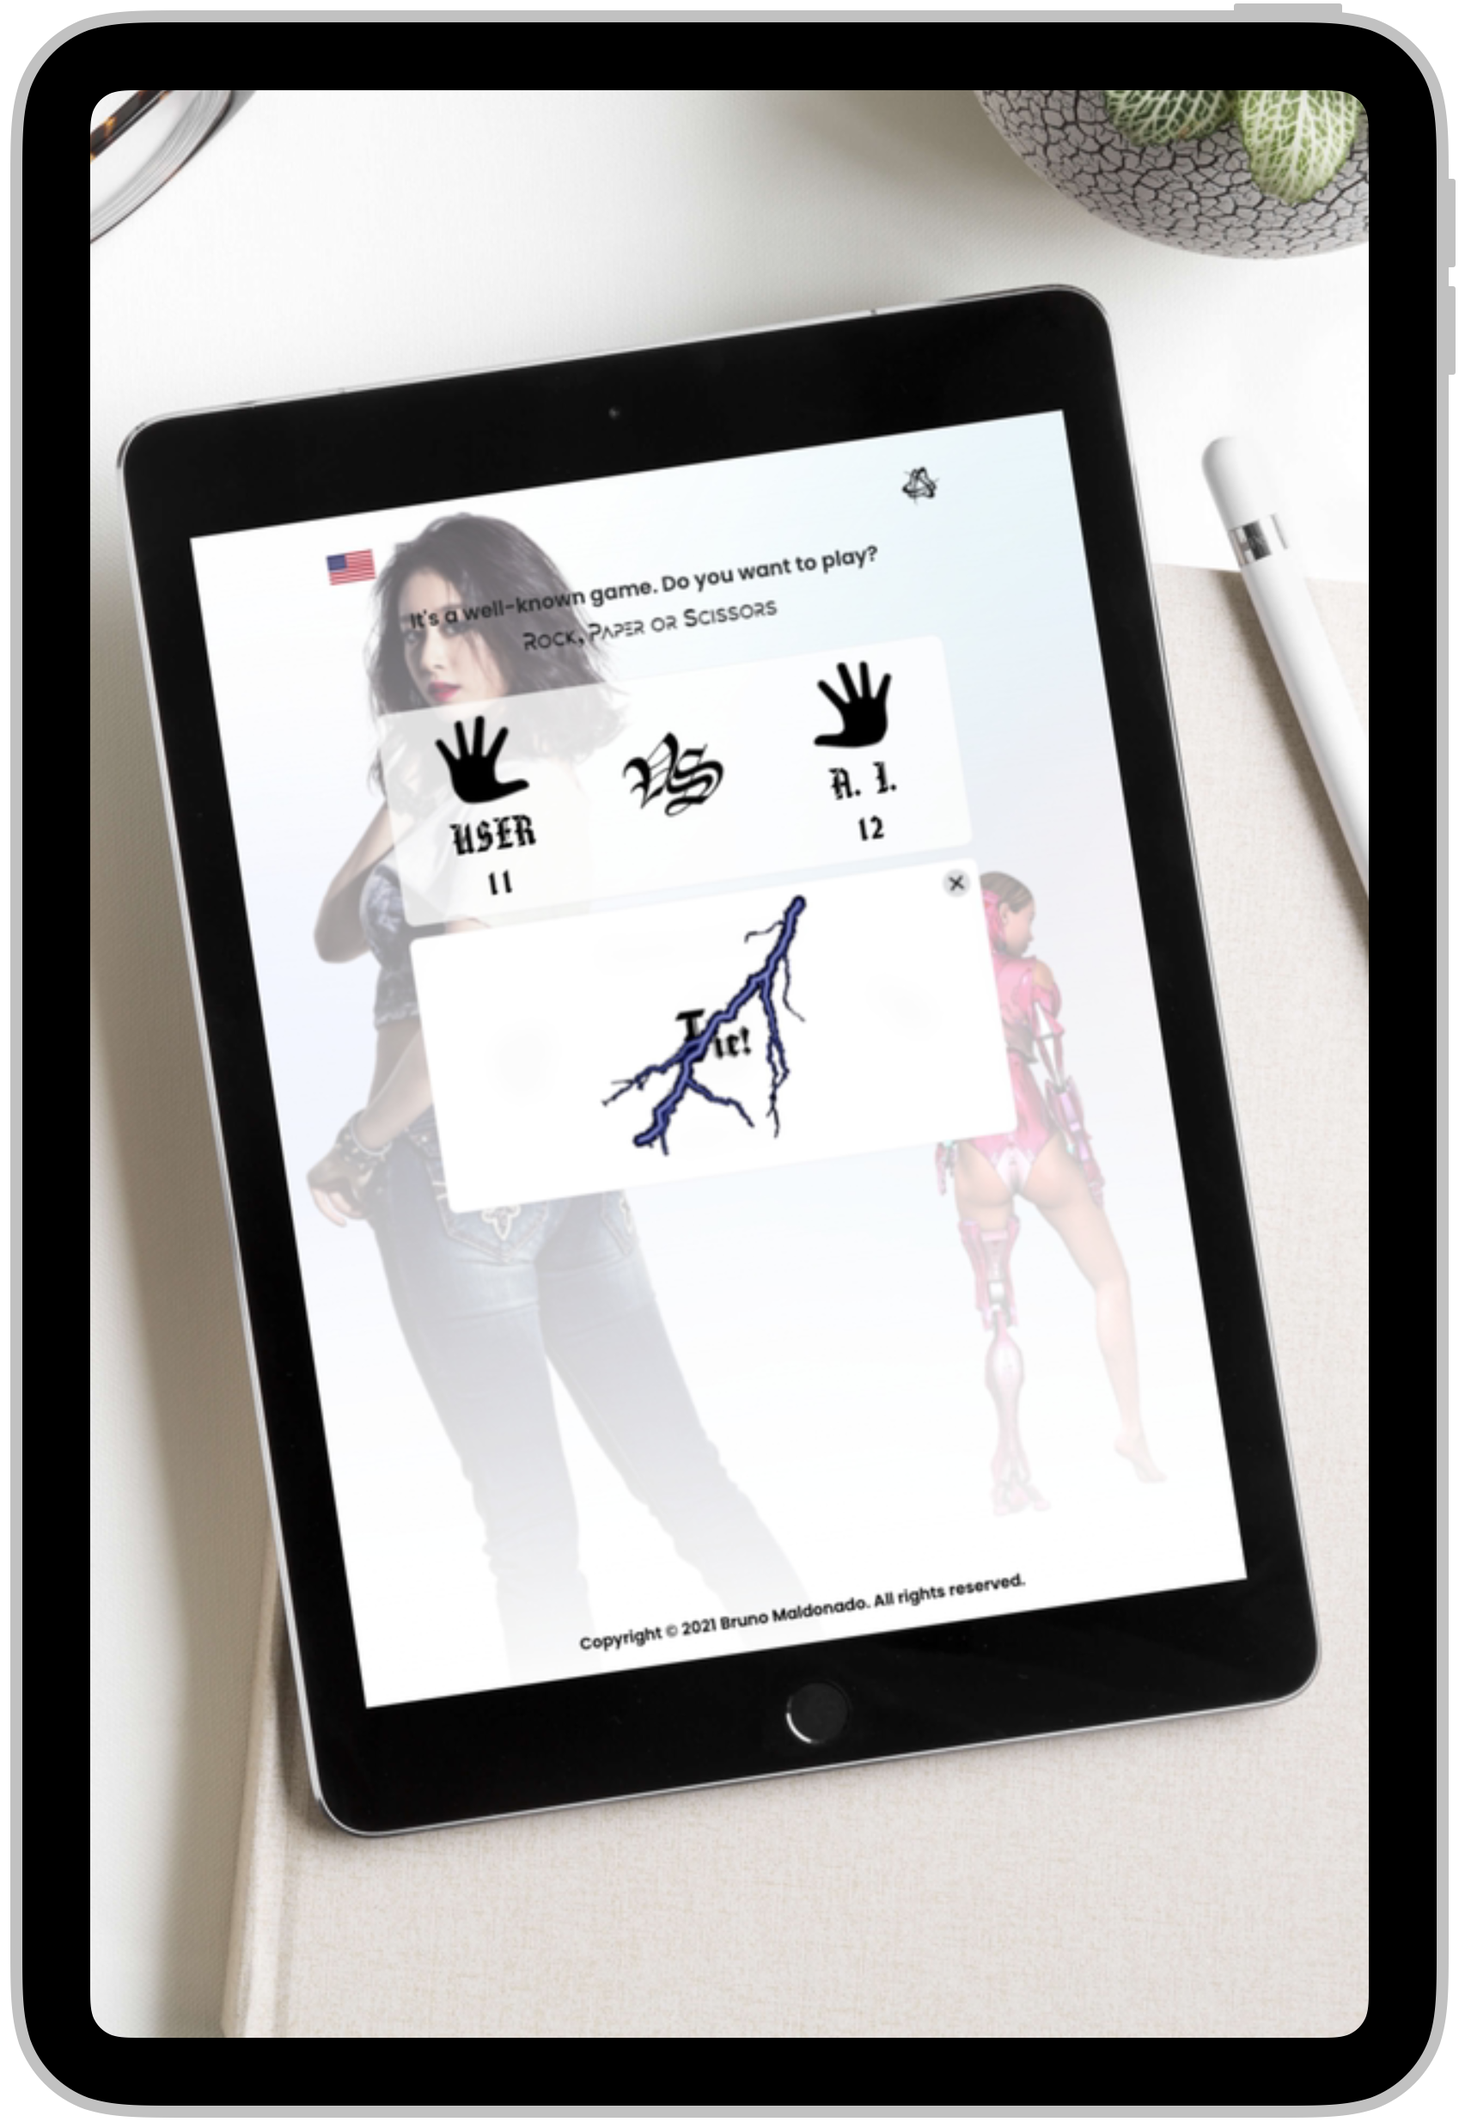
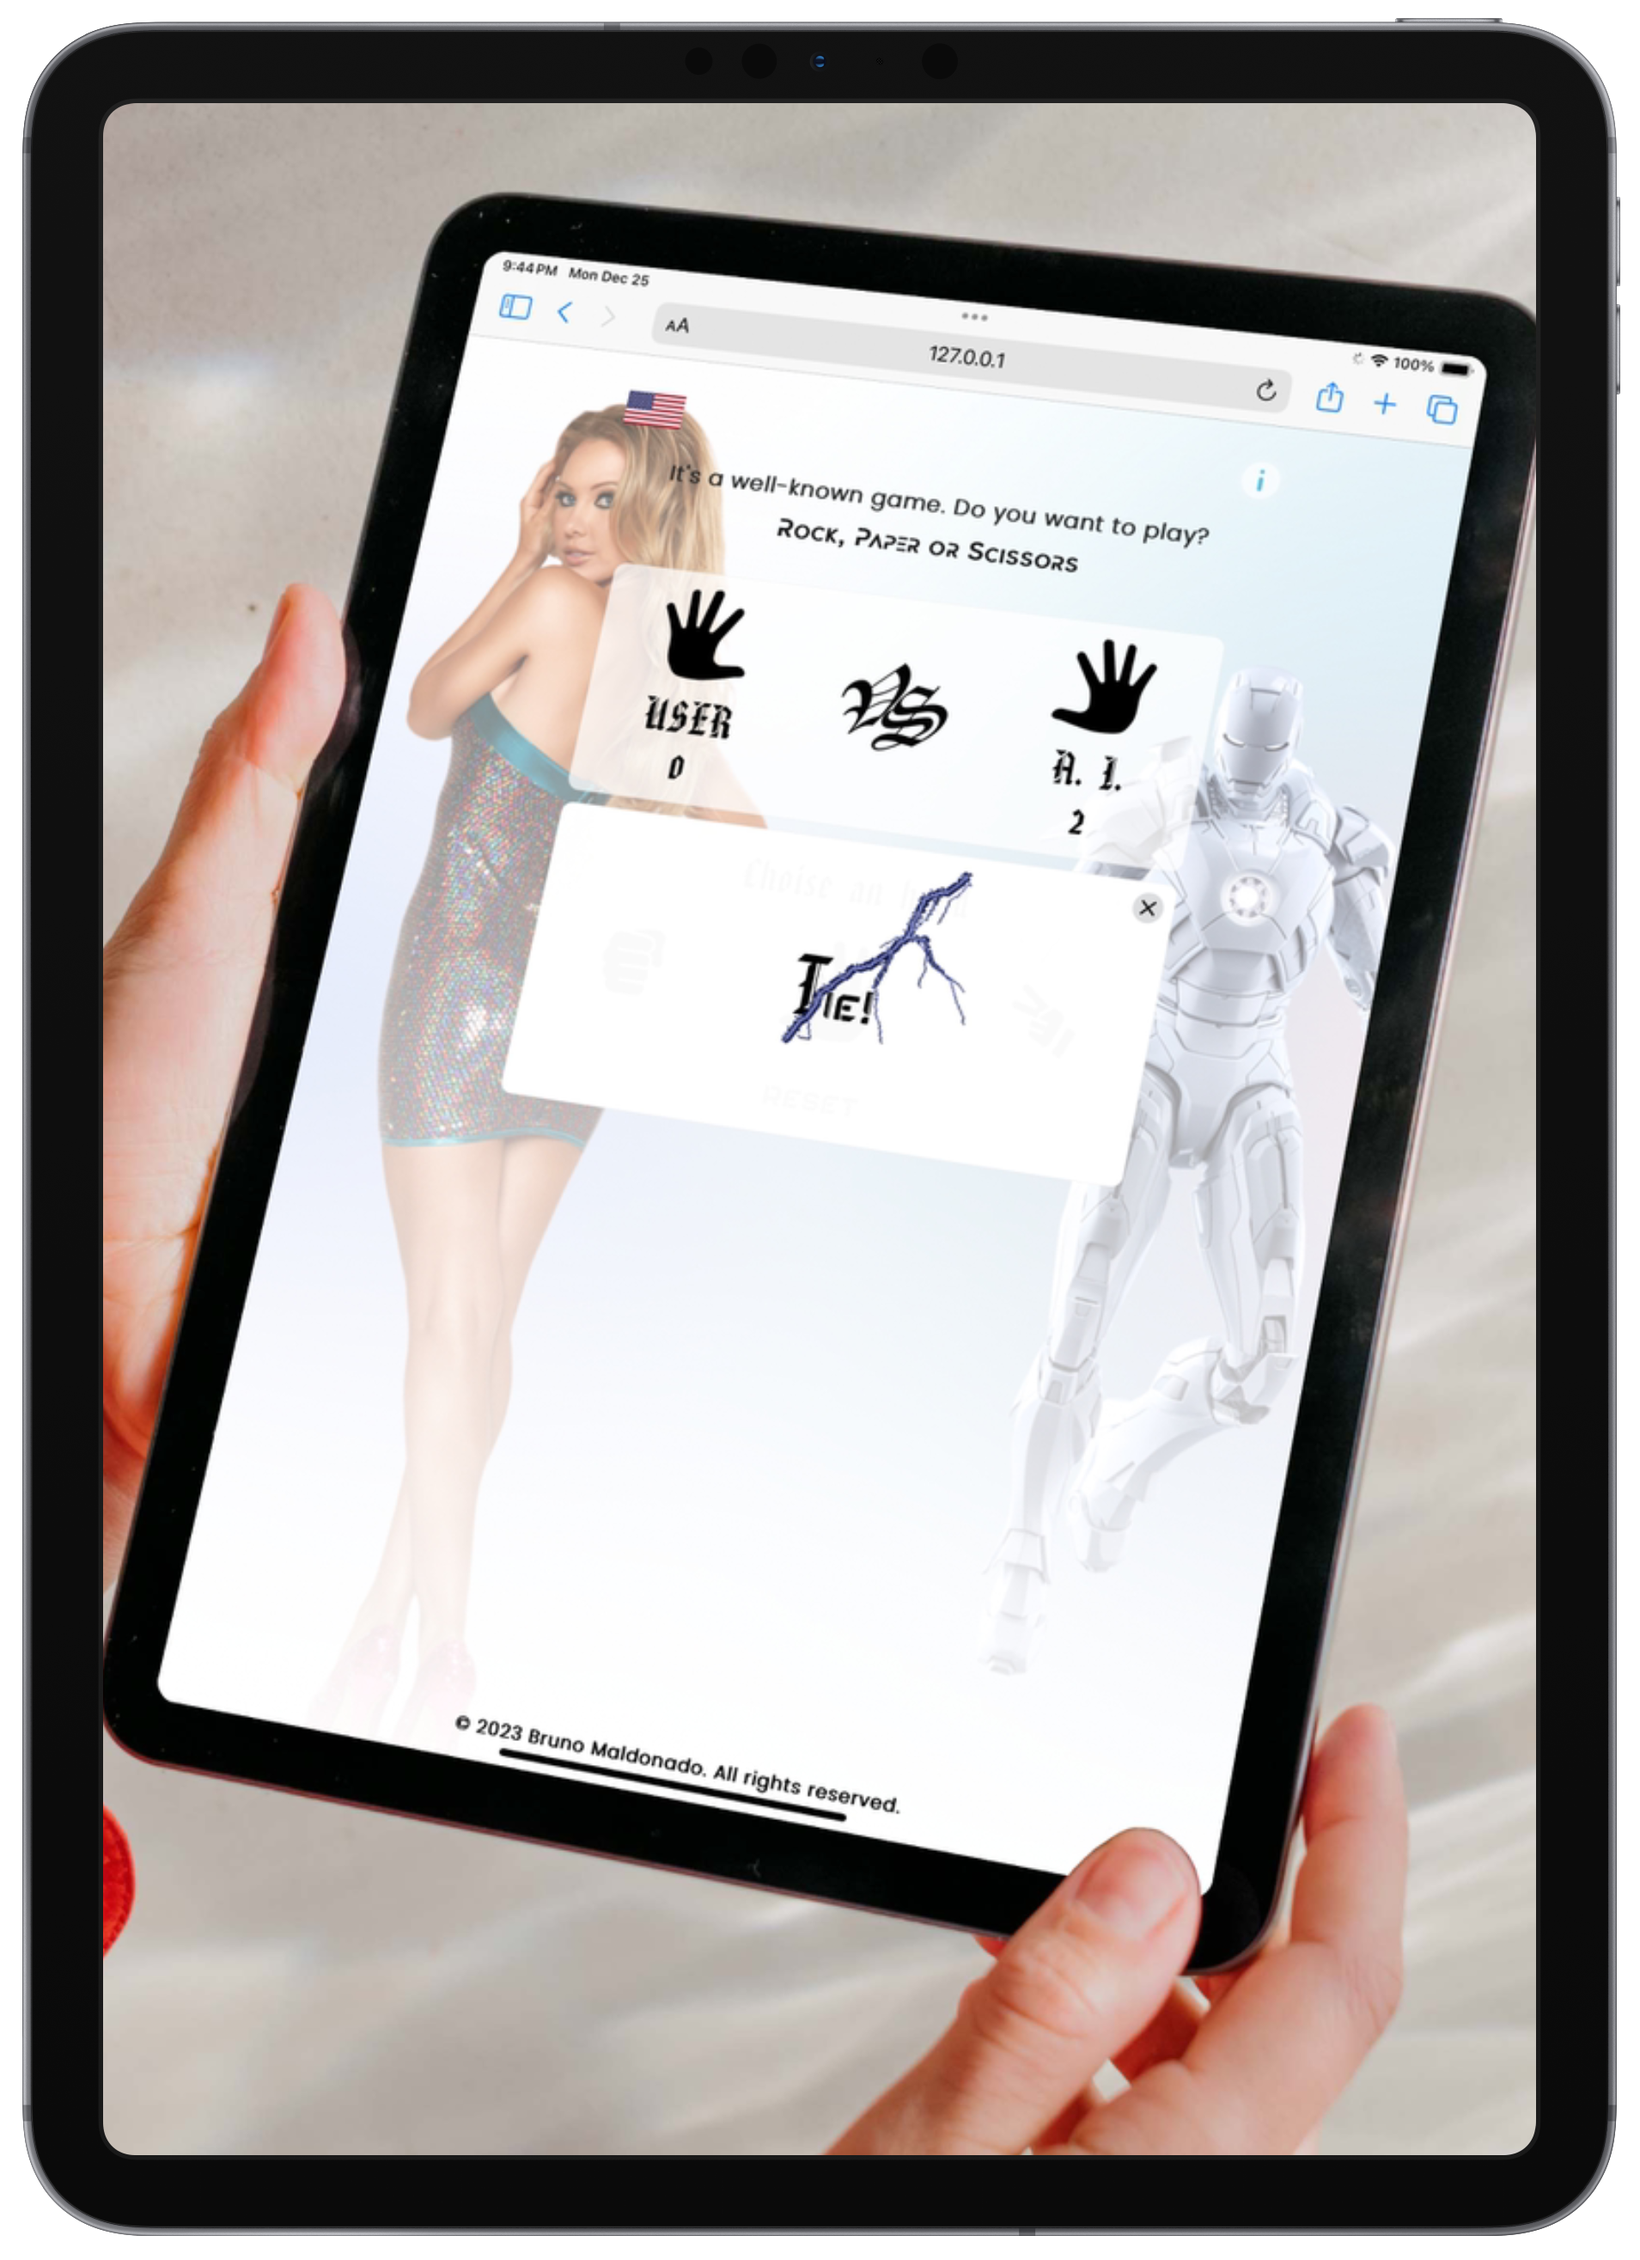
update repo

diff --git a/js/appen.js b/js/appen.js
@@ -22,8 +22,8 @@ const modal_users = document.getElementById("modal_users")
 const background_ai = document.getElementById("background_ai")
 const tie_background__users  = document.getElementById("tie_background__users")
 const tie_background__ai  = document.getElementById("tie_background__ai")
-const usersImages = ["./img/hum/09.png","./img/hum/10.png","./img/hum/05.png","./img/hum/042.png","./img/hum/07.png","./img/hum/06.png","./img/hum/08.png","./img/hum/11.png","./img/hum/g.png","./img/hum/c.png","./img/hum/042.png","./img/hum/03.png","./img/hum/b.png"]
-const iaImages = ["./img/rob/01.png","./img/rob/02.png","./img/rob/03.png","./img/rob/04.png","./img/rob/05.png","./img/rob/06.png","./img/rob/07.png","./img/rob/08.png"]
+const usersImages = ["./img/hum/g.png","./img/hum/10.png","./img/hum/11.png","./img/hum/05.png","./img/hum/07.png","./img/hum/06.png","./img/hum/08.png","./img/hum/09.png","./img/hum/03.png","./img/hum/c.png","./img/hum/042.png","./img/hum/aa.png","./img/hum/b.png"]
+const iaImages = ["./img/rob/01.png","./img/rob/06.png","./img/rob/03.png","./img/rob/04.png","./img/rob/05.png","./img/rob/02.png","./img/rob/07.png","./img/rob/08.png"]
 var index = 0;
 
 var bookmark_user = 0;

diff --git a/README.md b/README.md
@@ -8,7 +8,7 @@ A preview of the game, for mobile phone, tablets and desktop
 <div align="center">
   <img src="./assets/tablet.PNG" valign="top"  style="width: 49%;" alt="tablet">
   &nbsp; &nbsp; &nbsp; &nbsp;
-  <img src="./assets/mob.PNG" style="width: 38%;" alt="mobile">
+  <img src="./assets/mobile.PNG" style="width: 38%;" alt="mobile">
 </div>
 
 <!-- <table>
@@ -21,7 +21,7 @@ A preview of the game, for mobile phone, tablets and desktop
 When it comes to gambling there are only two types, winners and losers. Where you play with artificial intellingence. Figure out a way to beat him anyway. Winners don't make excuses when the other side plays the game.
 
 <p align = "center">
-  <img src="./assets/desk.PNG" alt="Start the Game">
+  <img src="./assets/ipad.PNG" alt="Start the Game">
 </p>
 
 The challenge of this exercise was not only the user interface, but to understand the algorithm behind the game, playing Rock Paper Scissors is not only training, but also plays an important role, the strategy.
